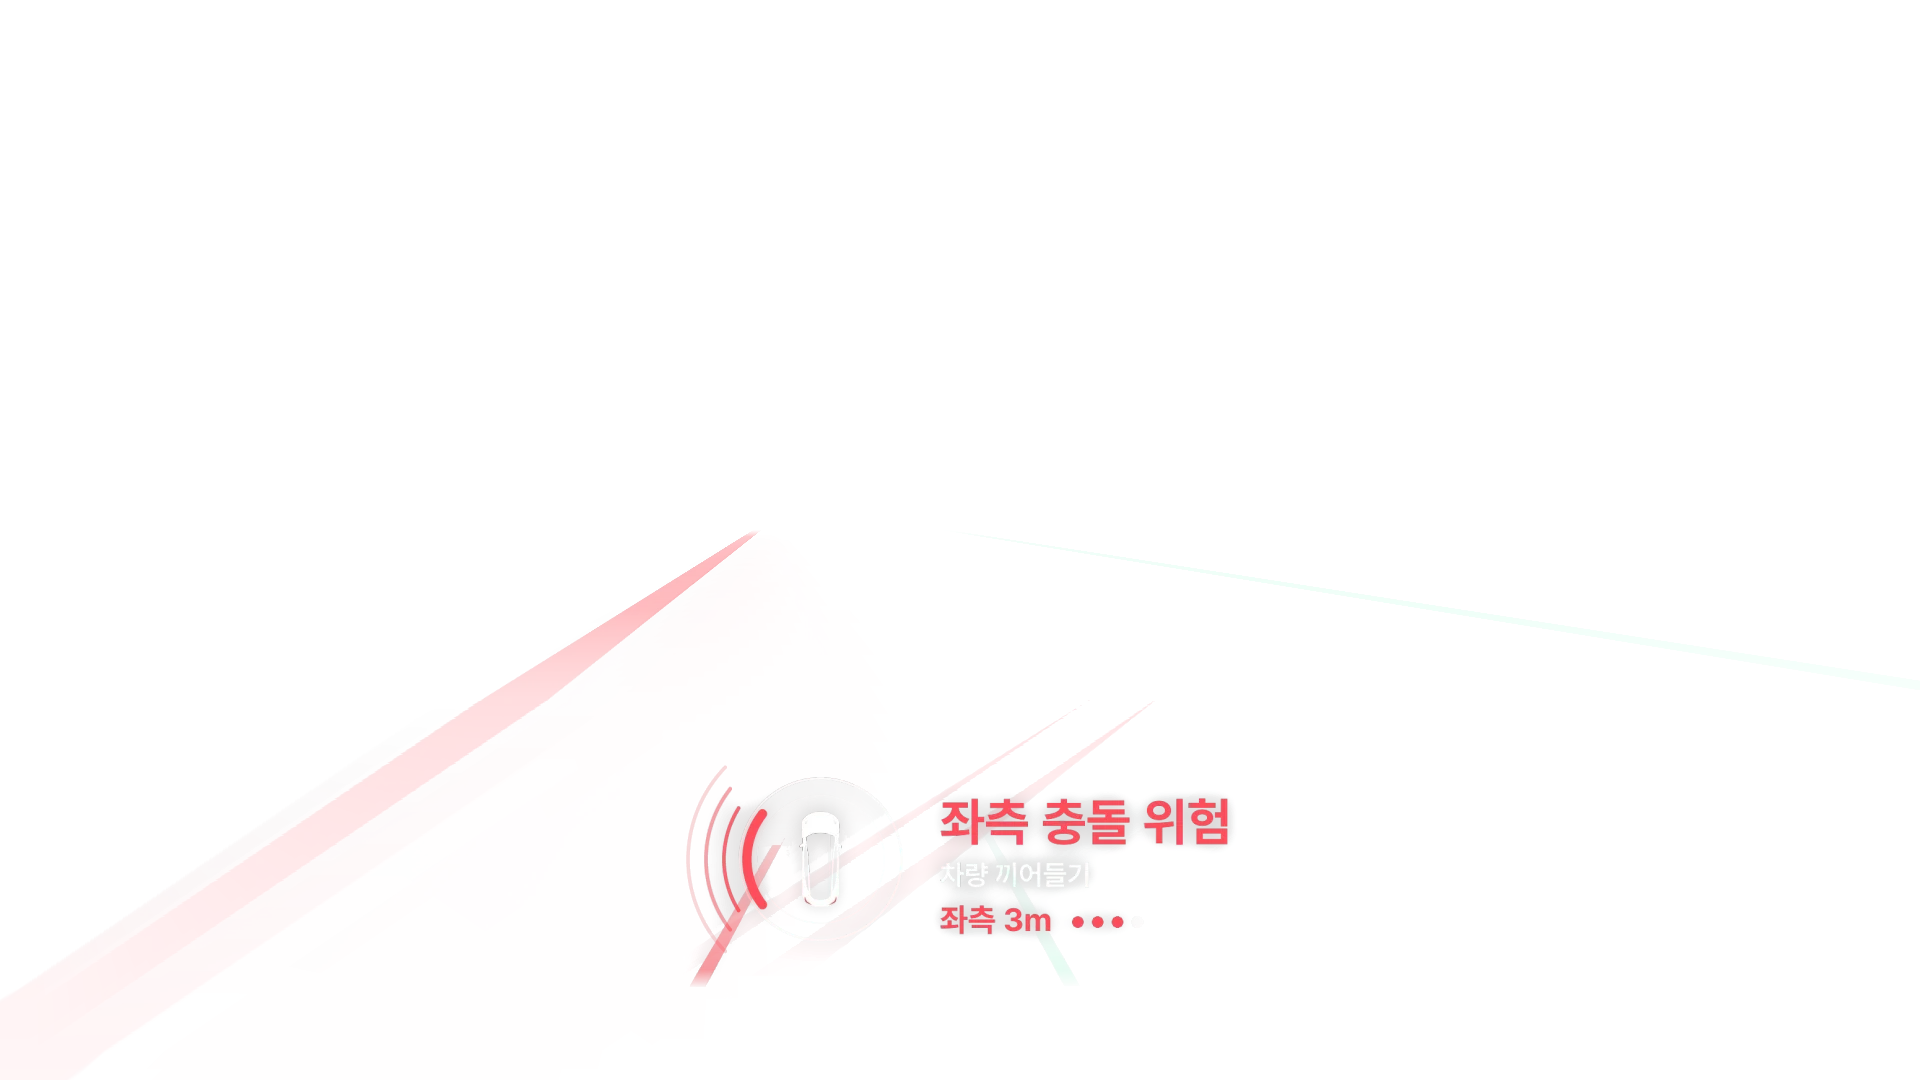
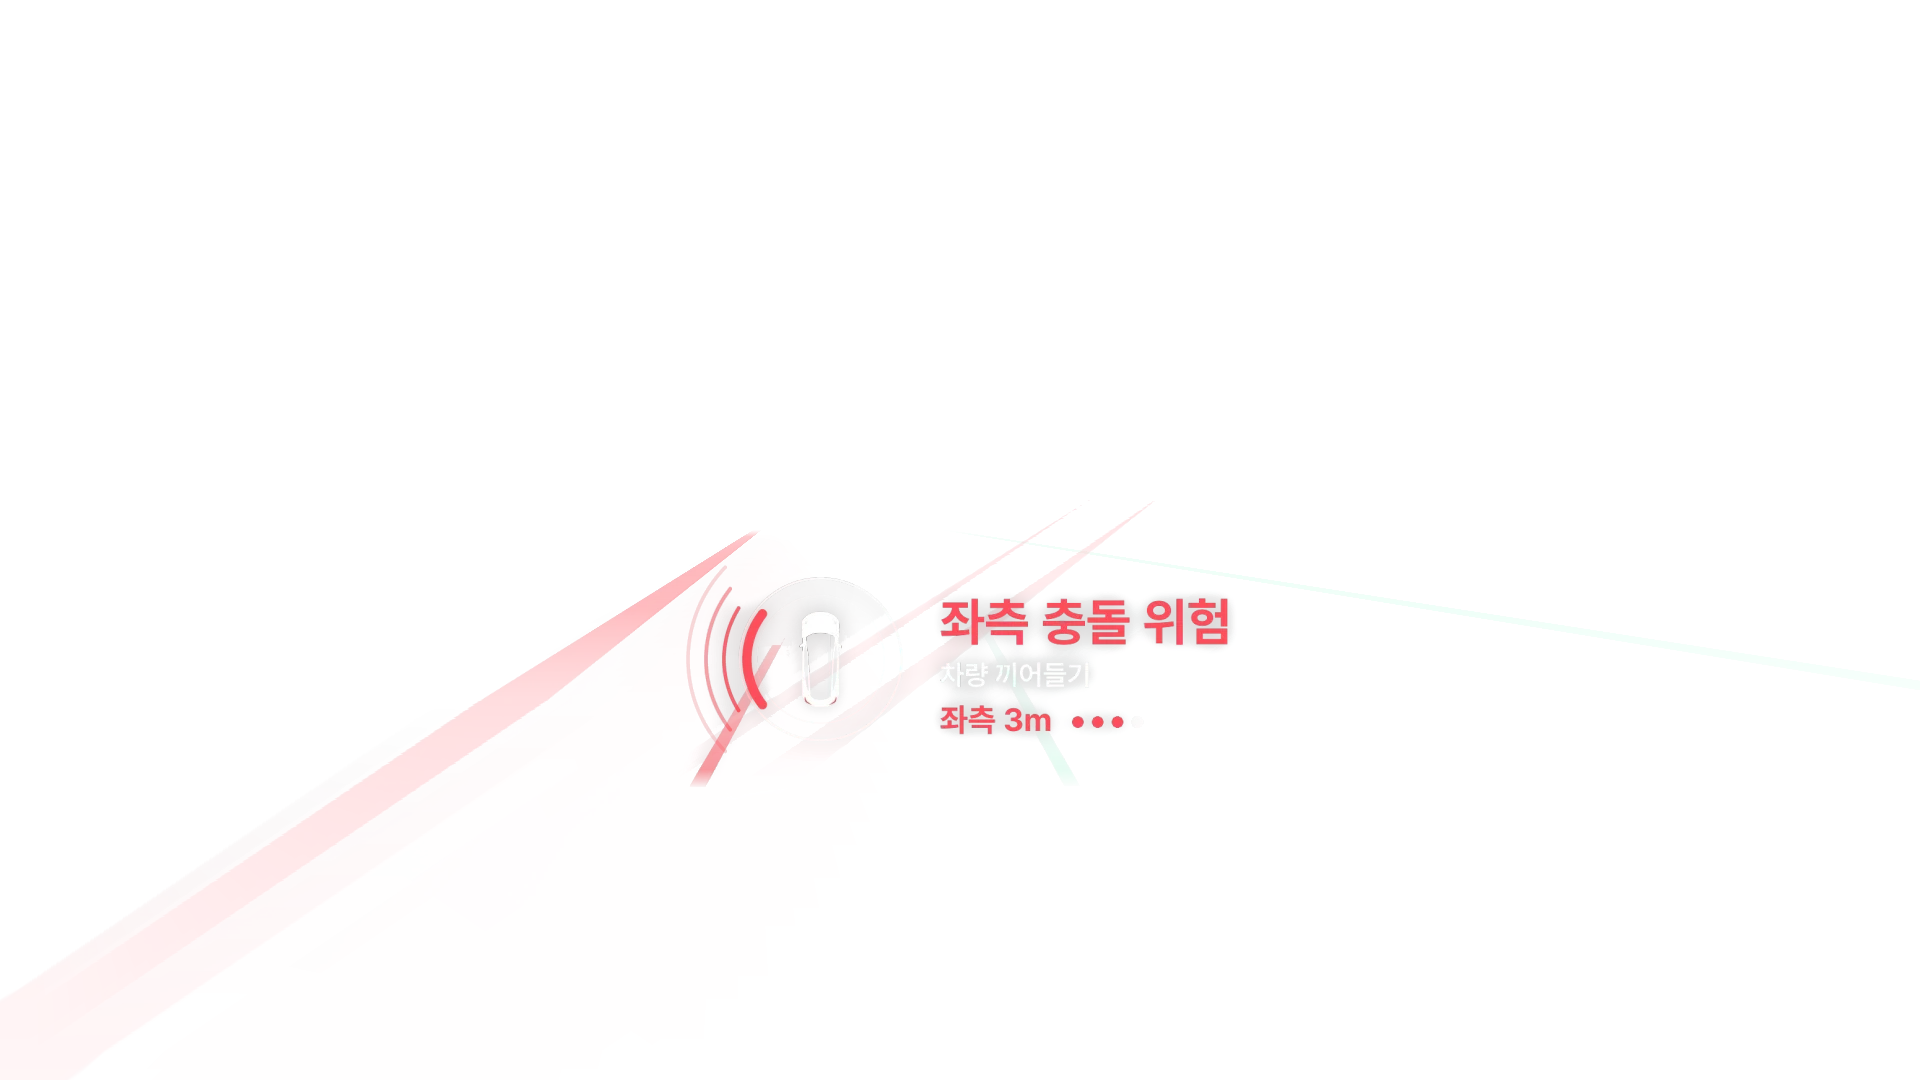
HUD 영상 위 글 카드 더 위로
- HUD 글 카드 200px 위로 (전 120px, images/hud-drive/*-ar.webp 5장 다시 만듦)
- CSS·JS 버전 ?v=20261110i

Changed region(s): [[0.3438, 0.55, 0.4375, 0.9167], [0.4688, 0.7333, 0.6562, 0.8861], [0.4688, 0.55, 0.6562, 0.7028]]

diff --git a/interface.js b/interface.js
@@ -4321,7 +4321,9 @@ document.addEventListener("DOMContentLoaded", () => {
     /* 2026.11.10 : HUD 글 카드(아이콘 · 경고 문장)를 왼쪽 아래 → 영상 가운데로 옮긴 그림으로 교체
        (그림 자체를 다시 만듦 — 카드 밑에 가려졌던 차선은 반대쪽 차선을 뒤집어 복원 / 전 : 카드 왼쪽 아래)
        ?v= 는 예전 그림이 캐시에 남아 있지 않게 */
-    img.src = `${DIR}${s.k}-ar.webp?v=20261110`;
+    /* 2026.11.10 (2) : 가운데 글 카드가 너무 아래라서 120px(1080 기준) 위로 — 그림 다시 만듦 (전 ?v=20261110)
+       2026.11.10 (3) : 더 올려서 200px 위로 (전 120px · ?v=20261110b) */
+    img.src = `${DIR}${s.k}-ar.webp?v=20261110c`;
     img.removeAttribute("loading");
     box.append(v, img);
     fig.append(box);

diff --git a/problem.html b/problem.html
@@ -28,7 +28,7 @@
 
   <link
     rel="stylesheet"
-    href="./style.css?v=20261110g"
+    href="./style.css?v=20261110i"
   >
 
 
@@ -38,7 +38,7 @@
 
   <link
     rel="stylesheet"
-    href="./about.css?v=20261110g"
+    href="./about.css?v=20261110i"
   >
 
 
@@ -47,7 +47,7 @@
   ====================================================== -->
 
   <script
-    src="./script.js?v=20261110g"
+    src="./script.js?v=20261110i"
     defer
   ></script>
 
@@ -57,7 +57,7 @@
   ====================================================== -->
 
   <script
-    src="./about.js?v=20261110g"
+    src="./about.js?v=20261110i"
     defer
   ></script>
 

diff --git a/user.html b/user.html
@@ -28,7 +28,7 @@
 
   <link
     rel="stylesheet"
-    href="./style.css?v=20261110g"
+    href="./style.css?v=20261110i"
   >
 
 
@@ -38,7 +38,7 @@
 
   <link
     rel="stylesheet"
-    href="./about.css?v=20261110g"
+    href="./about.css?v=20261110i"
   >
 
 
@@ -47,7 +47,7 @@
   ====================================================== -->
 
   <script
-    src="./script.js?v=20261110g"
+    src="./script.js?v=20261110i"
     defer
   ></script>
 
@@ -57,7 +57,7 @@
   ====================================================== -->
 
   <script
-    src="./about.js?v=20261110g"
+    src="./about.js?v=20261110i"
     defer
   ></script>
 

diff --git a/index.html b/index.html
@@ -9,7 +9,7 @@
 <title>
     DADEULLIM — Sound Experience
   </title>
-<link href="./style.css?v=20261110g" rel="stylesheet"/>
+<link href="./style.css?v=20261110i" rel="stylesheet"/>
 <!-- =====================================================
        INTRO 준비 — 2026.10.06
        화면이 그려지기 전에 인트로 재생 여부를 먼저 결정
@@ -761,6 +761,6 @@
 </div>
 </main>
 <!-- JAVASCRIPT -->
-<script src="./script.js?v=20261110g"></script>
+<script src="./script.js?v=20261110i"></script>
 </body>
 </html>

diff --git a/display.html b/display.html
@@ -28,7 +28,7 @@
 
   <link
     rel="stylesheet"
-    href="./style.css?v=20261110g"
+    href="./style.css?v=20261110i"
   >
 
 
@@ -39,7 +39,7 @@
 
   <link
     rel="stylesheet"
-    href="./interface.css?v=20261110g"
+    href="./interface.css?v=20261110i"
   >
 
 
@@ -49,7 +49,7 @@
   ====================================================== -->
 
   <script
-    src="./interface.js?v=20261110g"
+    src="./interface.js?v=20261110i"
     defer
   ></script>
 </head>

diff --git a/driving.html b/driving.html
@@ -30,7 +30,7 @@
 
   <link
     rel="stylesheet"
-    href="./style.css?v=20261110g"
+    href="./style.css?v=20261110i"
   >
 
 
@@ -40,7 +40,7 @@
 
   <link
     rel="stylesheet"
-    href="./experience.css?v=20261110g"
+    href="./experience.css?v=20261110i"
   >
 
 
@@ -49,7 +49,7 @@
   ====================================================== -->
 
   <script
-    src="./experience.js?v=20261110g"
+    src="./experience.js?v=20261110i"
     defer
   ></script>
 

diff --git a/safety.html b/safety.html
@@ -28,7 +28,7 @@
 
   <link
     rel="stylesheet"
-    href="./style.css?v=20261110g"
+    href="./style.css?v=20261110i"
   >
 
 
@@ -38,7 +38,7 @@
 
   <link
     rel="stylesheet"
-    href="./experience.css?v=20261110g"
+    href="./experience.css?v=20261110i"
   >
 
 
@@ -47,7 +47,7 @@
   ====================================================== -->
 
   <script
-    src="./experience.js?v=20261110g"
+    src="./experience.js?v=20261110i"
     defer
   ></script>
 

diff --git a/hud.html b/hud.html
@@ -30,7 +30,7 @@
 
   <link
     rel="stylesheet"
-    href="./style.css?v=20261110g"
+    href="./style.css?v=20261110i"
   >
 
 
@@ -40,7 +40,7 @@
 
   <link
     rel="stylesheet"
-    href="./interface.css?v=20261110g"
+    href="./interface.css?v=20261110i"
   >
 
 
@@ -49,7 +49,7 @@
   ====================================================== -->
 
   <script
-    src="./interface.js?v=20261110g"
+    src="./interface.js?v=20261110i"
     defer
   ></script>
 

diff --git a/handle.html b/handle.html
@@ -30,7 +30,7 @@
 
   <link
     rel="stylesheet"
-    href="./style.css?v=20261110g"
+    href="./style.css?v=20261110i"
   >
 
 
@@ -59,7 +59,7 @@
 
   <link
     rel="stylesheet"
-    href="./interface.css?v=20261110g"
+    href="./interface.css?v=20261110i"
   >
 
 
@@ -75,7 +75,7 @@
   ></script>
 
   <script
-    src="./interface.js?v=20261110g"
+    src="./interface.js?v=20261110i"
     defer
   ></script>
 

diff --git a/brand1.html b/brand1.html
@@ -23,7 +23,7 @@
   <!-- BRAND 공통 CSS -->
   <link
     rel="stylesheet"
-    href="./brand.css?v=20261110g"
+    href="./brand.css?v=20261110i"
   >
 
   <!-- =====================================================
@@ -45,7 +45,7 @@
   ====================================================== -->
 
   <script
-    src="./brand.js?v=20261110g"
+    src="./brand.js?v=20261110i"
     defer
   ></script>
 

diff --git a/brand2.html b/brand2.html
@@ -24,7 +24,7 @@
   <!-- BRAND 1·2 공통 CSS -->
   <link
     rel="stylesheet"
-    href="./brand.css?v=20261110g"
+    href="./brand.css?v=20261110i"
   >
 
 
@@ -383,7 +383,7 @@
 
   <!-- BRAND 1·2 공통 JS -->
   <script
-    src="./brand.js?v=20261110g"
+    src="./brand.js?v=20261110i"
     defer
   ></script>
 

diff --git a/logo.html b/logo.html
@@ -34,7 +34,7 @@
 
   <link
     rel="stylesheet"
-    href="./logo.css?v=20261110g"
+    href="./logo.css?v=20261110i"
   >
 </head>
 
@@ -1234,7 +1234,7 @@
 
 
   <!-- JAVASCRIPT -->
-  <script src="./logo.js?v=20261110g"></script>
+  <script src="./logo.js?v=20261110i"></script>
 
 </body>
 
